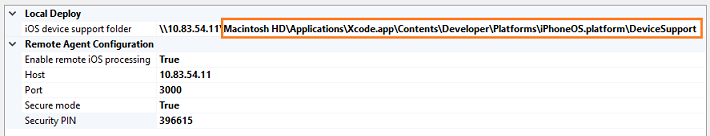
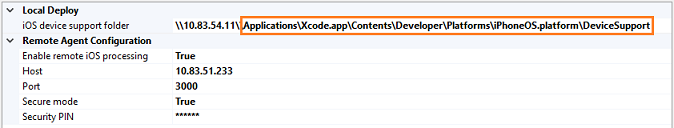
some targetted updates to the iOS Setup Guide

diff --git a/articles/getting-started/ios-guide.md b/articles/getting-started/ios-guide.md
@@ -440,13 +440,21 @@ To do this, you'll need a provisioning profile that you create by using an Apple
 
     See [Start the remote agent on your Mac](#remoteAgent).
 
-2. Share the device support folder. You'll find it here: ```Macintosh HD/Applications/Xcode.app/Contents/Developer/Platforms/iPhoneOS.platform/DeviceSupport```.
+2. Share the **Application** folder with Windows computers.
 
-    For guidance, see [Set up a Mac to share files with Windows users](https://support.apple.com/kb/PH18707).
+    See [Set up a Mac to share files with Windows users](https://support.apple.com/kb/PH18707).
 
 #### On your Windows computer
 
-1. Install [Apple iTunes](http://www.apple.com/itunes/).
+1. In a **File Explorer** window, log into the IP address of the mac.
+
+   ![log-into-mac-from-windows](media/ios-guide/log-into-mac-from-windows.png).
+
+   The first time you attempt to open files on your mac, you'll be prompted for a username and password. Enter the username and password of the account that you turned on Windows File Sharing for.
+
+   This establishes a file sharing connection between your Windows computer and your Mac.
+
+2. Install [Apple iTunes](http://www.apple.com/itunes/).
 
 2. Connect your device.
 
@@ -460,7 +468,9 @@ To do this, you'll need a provisioning profile that you create by using an Apple
 
     ![iOS configuration dialog box](media/ios-guide/options-dialog.png)
 
-6. Add the path to the device support files that are located on your remote Mac.
+6. In the **iOS device support folder** field, add this path: ```\\<IPAddress>\Applications\Xcode.app\Contents\Developer\Platforms\iPhoneOS.platform\DeviceSupport``` where *IPAddress* is the IP Address of your Mac.
+
+    The following image shows an example:
 
     ![Path to device files](media/ios-guide/local-debugging.png)
 
@@ -540,7 +550,25 @@ Then, run this command:
 remotebuild certificates generate
 ```
 
-Start the remote agent and try connecting to it from Visual Studio again.
+Start the remote agent.
+
+On your Windows computer, in the **Options** dialog box, open **Tools for Apache Cordova**, and then choose **iOS Configuration**.
+
+![Remote Agent Configuration Options](media/ios-guide/options-dialog.png)
+
+Add the host name and port number to the appropriate fields in this dialog box.
+
+If you're using secure mode, set the **Secure mode** field to **True**, and then add the security pin.
+
+![Settings for secure mode](media/ios-guide/secure-mode.png)
+
+If you're not using secure mode, set the **Secure mode** field to **False**, and then leave the **Security PIN** field blank.
+
+![Settings for non-secure mode](media/ios-guide/non-secure-mode.png)
+
+Choose the **OK** button to close this dialog box.
+
+Visual Studio connects to the remote agent. If you don't receive any errors, you've successfully connected.
 
 Still not working? Reach out to us [here](http://stackoverflow.com/questions/tagged/visual-studio-cordova).
 
